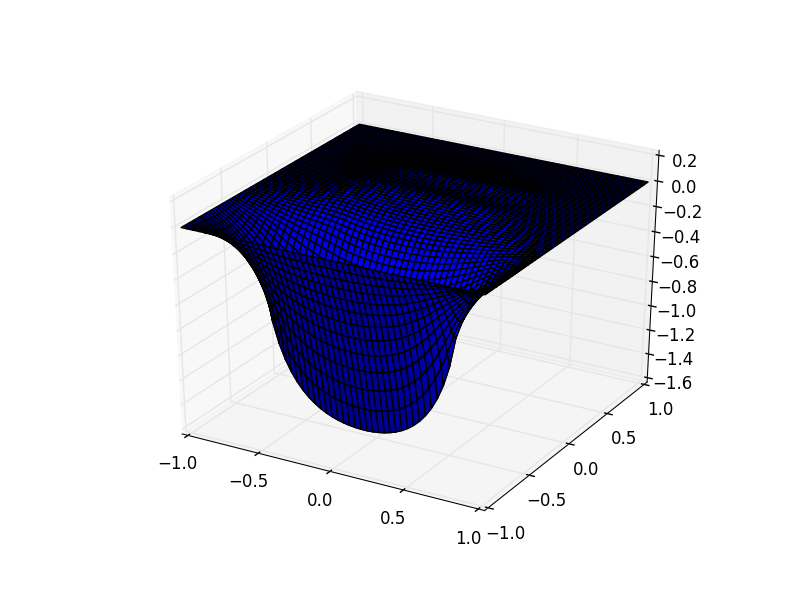
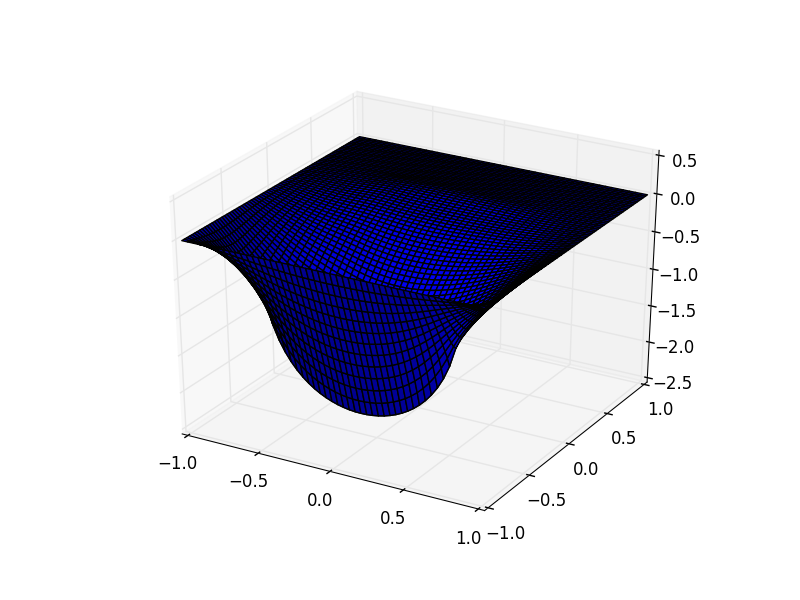
se agrega funcion no_ha_convergido

Changed region(s): [[0.2188, 0.21, 0.875, 0.72], [0.8438, 0.24, 0.875, 0.27]]

diff --git a/tarea5.py b/tarea5.py
@@ -31,7 +31,7 @@ def rho(i, j, h):
 #hay una ec para los puntos lejanos a la linea neumann
 #hay otra para los inmediatamente vecinos a la linea neumann
 
-def una_iteracion(v, v_next, N_pasos_x, N_pasos_y, h=0.2, w=1.):
+def una_iteracion(v, v_next, N_pasos_x, N_pasos_y, h=0.2, w=1.2):
     for i in range(1, N_pasos_x-1):
         #abajo
         for j in range(1, 12):
@@ -73,24 +73,37 @@ def una_iteracion(v, v_next, N_pasos_x, N_pasos_y, h=0.2, w=1.):
                           w / 3 * (v[i+1, j] + v_next[i-1, j] +
                                    v_next[i, j-1] + h**2 * rho(i, j, h) + h*(1.)))
 
+
+def no_ha_convergido(v, v_next, tolerancia=1e-3):
+    not_zero = (v_next != 0)
+    diff_relativa = (v - v_next)[not_zero] / v_next[not_zero]
+    max_diff = np.max(np.fabs(diff_relativa))
+    if max_diff > tolerancia:
+        return True
+    else:
+        return False
+
 #Main
 #Setup
 
 Lx = 10
 Ly = 15
 h = 0.2
+w=1.2
 N_pasos_x = int(Lx/h +1)
 N_pasos_y = int(Ly/h +1)
 
 v = np.zeros((N_pasos_x, N_pasos_y))
 v_next = np.zeros((N_pasos_x, N_pasos_y))
 
-una_iteracion(v, v_next, N_pasos_x, N_pasos_y, h, w=0.7)
+una_iteracion(v, v_next, N_pasos_x, N_pasos_y, h, w)
 counter = 1
-while counter < 100:
+while counter < 3000 and no_ha_convergido(v, v_next, tolerancia=1e-3):
     v = v_next.copy()
-    una_iteracion(v, v_next, N_pasos_x, N_pasos_y , h, w=1.)
+    una_iteracion(v, v_next, N_pasos_x, N_pasos_y , h, w)
     counter += 1
+
+print("counter = {}".format(counter))
 
 v_next_rotada=v_next.transpose()
 
